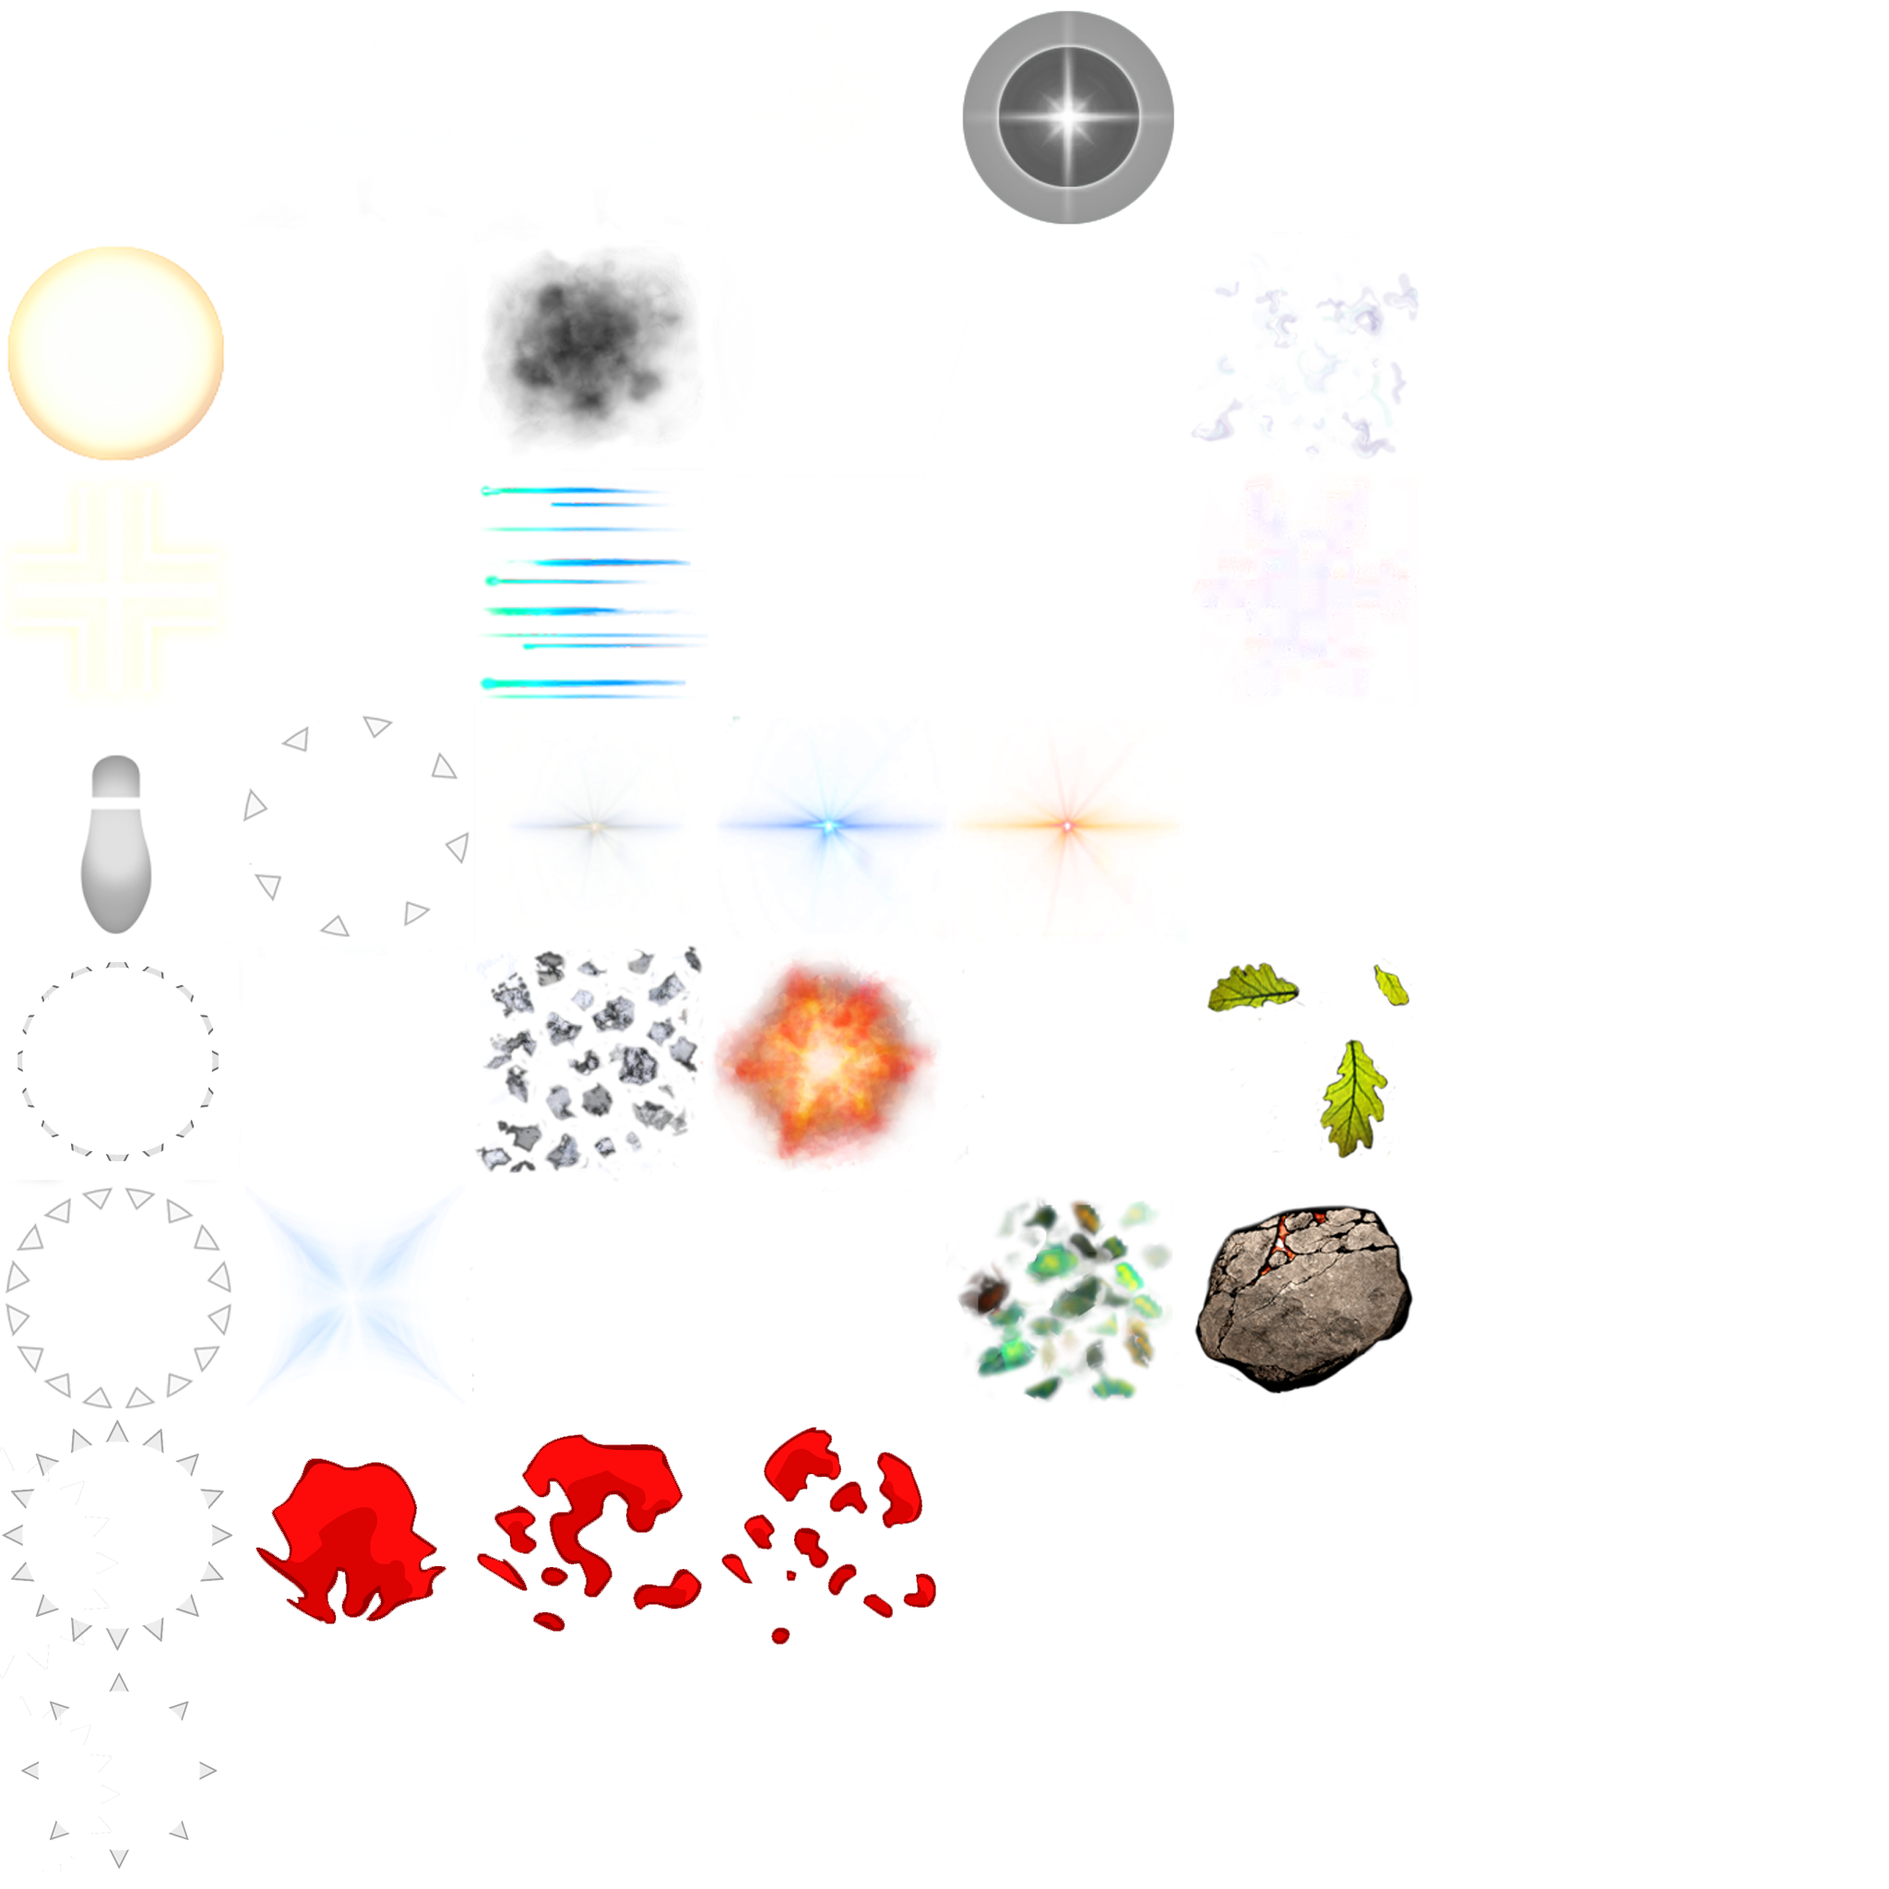
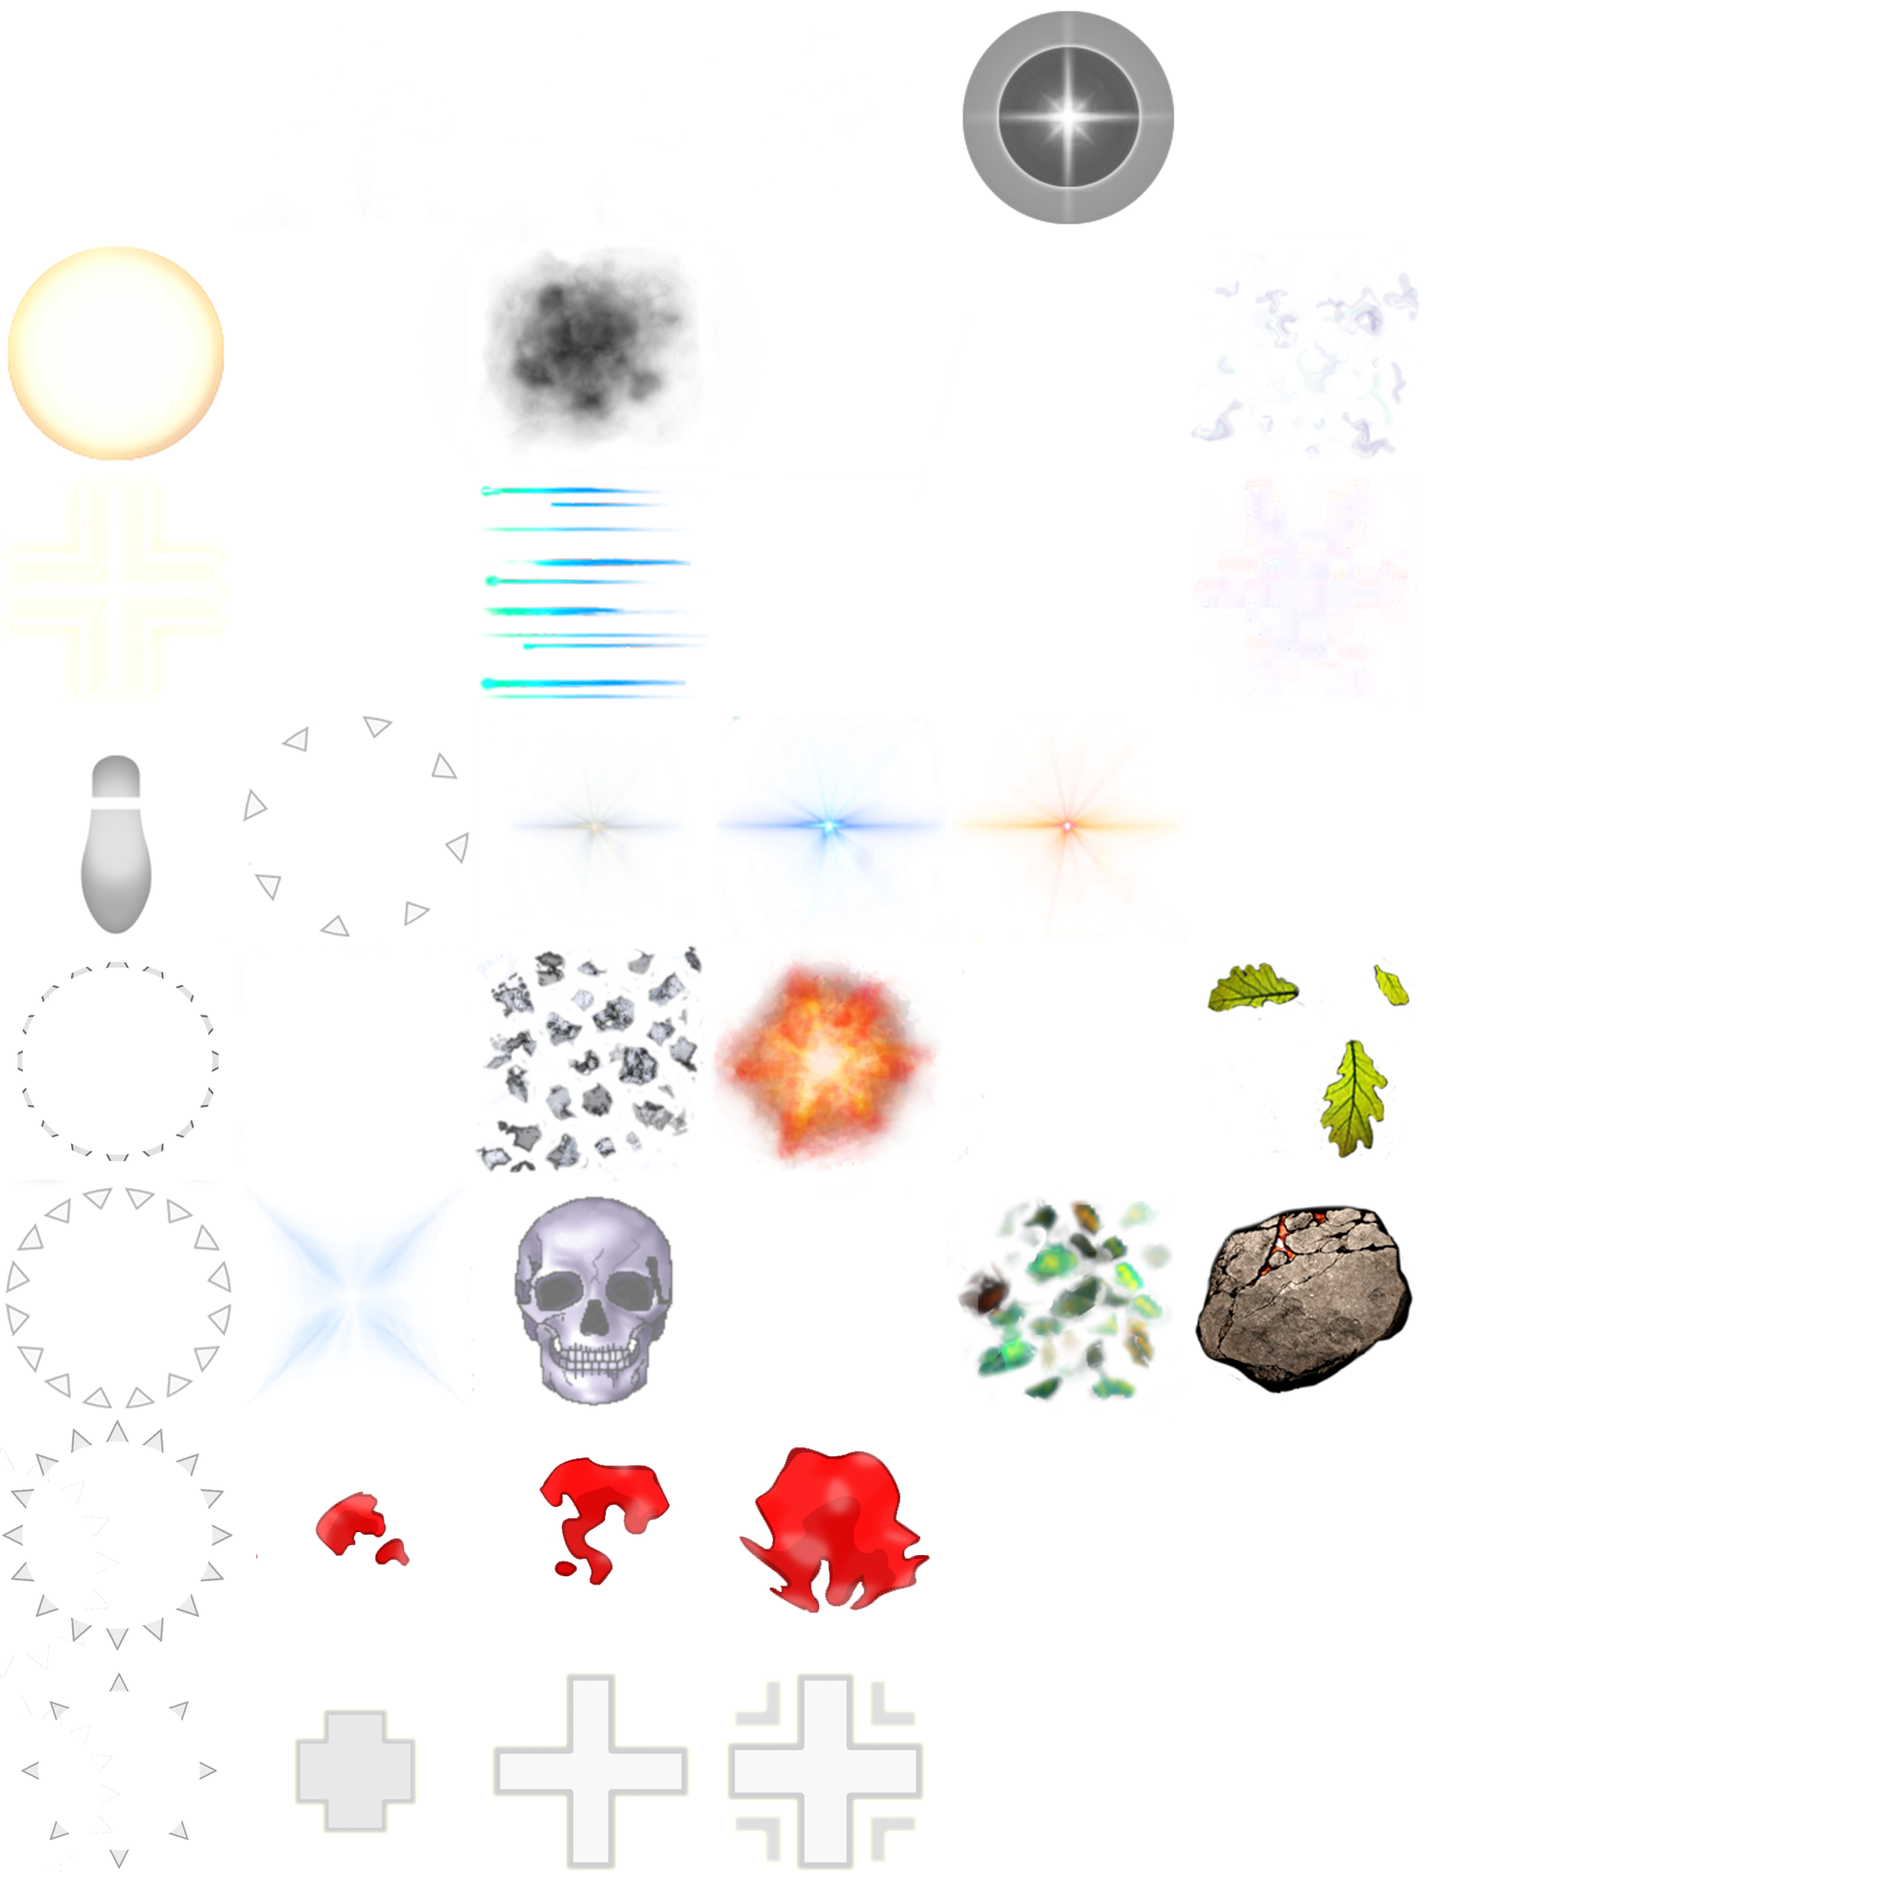
effect fixes

Changed region(s): [[0.125, 0.625, 0.5, 1.0], [0.1562, 0.9062, 0.2188, 0.9688]]

diff --git a/client/js/game/gamepieces/GamePiece.js b/client/js/game/gamepieces/GamePiece.js
@@ -9,6 +9,8 @@ import { MovementPath } from "../piece_functions/MovementPath.js";
 import { PieceState } from "./PieceState.js";
 import { PieceInfoGui } from "../../application/ui/gui/game/PieceInfoGui.js";
 import { CompanionSystem } from "../companion/CompanionSystem.js";
+import * as PieceEffects from "./PieceEffects.js";
+
 import { Vector3 } from "../../../libs/three/math/Vector3.js";
 
 let tempVec3 = new Vector3();
@@ -34,7 +36,7 @@ class GamePiece {
         let tickGamePiece = function(tpf, gameTime) {
         //    this.notifyDamageTaken(5);
             if (Math.random() < 0.15) {
-        //        this.notifyHealthRecover(Math.floor(Math.random()*5)+1)
+            //    PieceEffects.deathEffect(this)
             }
 
             if (this.isDead) {
@@ -202,88 +204,11 @@ class GamePiece {
     };
 
     notifyDamageTaken(dmg, attacker) {
-
-        let effectCb = function(efct) {
-            efct.activateEffectFromConfigId()
-            let fxLanded = function(fx) {
-            //    console.log("Fx arrives", fx)
-            }
-
-            let tempObj = ThreeAPI.tempObj;
-            tempObj.position.copy(this.getPos());
-            let size = this.getStatusByKey('size');
-            tempObj.position.y += size*0.8
-            ThreeAPI.tempVec3.set(size*0.2, size*0.75, size*0.2)
-            tempObj.lookAt(ThreeAPI.getCamera().position);
-            MATH.spreadVector(tempObj.position, ThreeAPI.tempVec3)
-            efct.quat.copy(tempObj.quaternion);
-            tempVec3.copy(this.getPos());
-
-            tempVec3.y += 10000;
-            tempObj.lookAt(tempVec3);
-            tempObj.rotateZ(Math.random()*MATH.TWO_PI)
-            tempVec3.y = 0.1;
-
-            ThreeAPI.tempVec3.set(size*2, 0, size*2)
-
-            efct.setEffectSpriteXY(1+Math.floor(Math.random()*2), 6);
-
-            MATH.spreadVector(tempVec3, ThreeAPI.tempVec3)
-
-            efct.activateSpatialTransition(tempObj.position, efct.quat, tempVec3, tempObj.quaternion, size*0.1+Math.random()*0.3, size*0.2+Math.random()*size*0.5, 0.3+Math.random()*0.3, fxLanded)
-        }.bind(this);
-
-        for (let i = 0; i < dmg; i++) {
-            EffectAPI.buildEffectClassByConfigId('additive_stamps_8x8', 'effect_damage_taken',  effectCb)
-        }
-
-
-
+        PieceEffects.damageEffect(this, dmg, attacker)
     }
 
     notifyHealthRecover(hp, healer) {
-
-
-        let applies = 0;
-        let effectCb = function(efct) {
-
-            efct.activateEffectFromConfigId()
-
-            let tempObj = ThreeAPI.tempObj;
-            tempObj.position.copy(this.getPos());
-            let size = this.getStatusByKey('size');
-            tempObj.position.y += size*1.2
-            tempObj.lookAt(ThreeAPI.getCamera().position);
-
-            efct.quat.copy(tempObj.quaternion);
-            tempVec3.copy(this.getPos());
-
-            tempVec3.y += size + 0.3+Math.sqrt(applies*0.2);
-        //    tempObj.lookAt(tempVec3);
-        //    tempObj.rotateZ(Math.random()*MATH.TWO_PI)
-        //    tempVec3.y = 0.1;
-
-            ThreeAPI.tempVec3.set(Math.sqrt(applies*0.2), Math.sqrt(applies*0.2), Math.sqrt(applies*0.2))
-            MATH.spreadVector(tempVec3, ThreeAPI.tempVec3)
-
-        //    efct.setEffectSpriteXY(0, 2);
-            let fxLanded = function(fx) {
-           //     console.log("arrive: ", fx)
-                efct.endEffectOfClass()
-                ThreeAPI.tempVec3.set(0, -1000, 0)
-                efct.setEffectPosition(ThreeAPI.tempVec3)
-            }
-
-            efct.activateSpatialTransition(tempObj.position, efct.quat, tempVec3, tempObj.quaternion, size*0.1, size*0.5, 1.5, fxLanded)
-            applies ++;
-        }.bind(this);
-
-        for (let i = 0; i < hp; i++) {
-            EffectAPI.buildEffectClassByConfigId('additive_stamps_8x8', 'effect_health_recovered',  effectCb)
-        }
-
-
-
+        PieceEffects.healEffect(this, hp, healer)
     }
 
     getStatus() {
@@ -301,6 +226,7 @@ class GamePiece {
     applyPieceDeadStatus() {
         this.isDead = true;
         this.clearEngagementStatus();
+        PieceEffects.deathEffect(this)
     }
     clearEngagementStatus() {
         this.movementPath.cancelMovementPath()

diff --git a/client/js/game/gamepieces/PieceEffects.js b/client/js/game/gamepieces/PieceEffects.js
@@ -1,0 +1,119 @@
+import { Vector3 } from "../../../libs/three/math/Vector3.js";
+
+let tempVec3 = new Vector3();
+
+let rgba = {
+    r:1, g:1, b:1, a:1
+}
+
+let setRgba = function(r, g, b, a) {
+    rgba.r = r;
+    rgba.g = g;
+    rgba.b = b;
+    rgba.a = a;
+}
+
+let fxLanded = function(fx) {
+    //    console.log("Fx arrives", fx)
+}
+
+let endOnLanded = function(fx) {
+    fx.endEffectOfClass()
+}
+
+function damageEffect(gamePiece, dmg, attacker) {
+
+    let effectCb = function(efct) {
+        efct.activateEffectFromConfigId()
+        let tempObj = ThreeAPI.tempObj;
+        tempObj.position.copy(gamePiece.getPos());
+        let size = gamePiece.getStatusByKey('size');
+        tempObj.position.y += size*0.8
+        ThreeAPI.tempVec3.set(size*0.2, size*0.75, size*0.2)
+        tempObj.lookAt(ThreeAPI.getCamera().position);
+        MATH.spreadVector(tempObj.position, ThreeAPI.tempVec3)
+        efct.quat.copy(tempObj.quaternion);
+        tempVec3.copy(gamePiece.getPos());
+        tempVec3.y += 10000;
+        tempObj.lookAt(tempVec3);
+        tempObj.rotateZ(Math.random()*MATH.TWO_PI)
+        tempVec3.y = 0.1;
+        ThreeAPI.tempVec3.set(size*2, 0, size*2)
+        efct.setEffectSpriteXY(1+Math.floor(Math.random()*3), 6);
+        MATH.spreadVector(tempVec3, ThreeAPI.tempVec3)
+        efct.activateSpatialTransition(tempObj.position, efct.quat, tempVec3, tempObj.quaternion, size*0.2+Math.random()*0.2, size*0.6+Math.random()*size*0.5, 0.4+Math.random()*0.3, fxLanded, 0.9)
+    }
+
+    for (let i = 0; i < dmg; i++) {
+        EffectAPI.buildEffectClassByConfigId('additive_stamps_8x8', 'effect_damage_taken',  effectCb)
+    }
+}
+
+function healEffect(gamePiece, hp, healer) {
+
+    let applies = 0;
+    let effectCb = function(efct) {
+
+        let tempObj = ThreeAPI.tempObj;
+        tempObj.position.copy(gamePiece.getPos());
+        let size = gamePiece.getStatusByKey('size');
+        tempObj.position.y += size*1.7
+        tempObj.lookAt(ThreeAPI.getCamera().position);
+
+        efct.quat.copy(tempObj.quaternion);
+        tempVec3.copy(gamePiece.getPos());
+
+        tempVec3.y = tempObj.position.y + 0.2+Math.sqrt(applies*0.2);
+
+        ThreeAPI.tempVec3.set(Math.sqrt(applies*0.2), Math.sqrt(applies*0.2), Math.sqrt(applies*0.2))
+        MATH.spreadVector(tempVec3, ThreeAPI.tempVec3)
+
+        efct.setEffectSpriteXY(1+Math.floor(Math.random()*3), 7);
+
+        efct.activateSpatialTransition(tempObj.position, efct.quat, tempVec3, tempObj.quaternion, size*0.1, size*0.5, 1.5, endOnLanded, 0.2)
+        efct.activateEffectFromConfigId()
+        applies ++;
+    };
+
+    for (let i = 0; i < hp; i++) {
+        EffectAPI.buildEffectClassByConfigId('additive_stamps_8x8', 'effect_health_recovered',  effectCb)
+    }
+
+
+}
+
+function deathEffect(gamePiece) {
+    let effectCb = function(efct) {
+        efct.activateEffectFromConfigId()
+        let tempObj = ThreeAPI.tempObj;
+        tempObj.position.copy(gamePiece.getPos());
+        let size = gamePiece.getStatusByKey('size');
+        tempObj.position.y = -0.2
+        ThreeAPI.tempVec3.set(size*0.2, size*0.75, size*0.2)
+        tempObj.quaternion.set(0, 0, 0, 1);
+        tempObj.lookAt(ThreeAPI.getCamera().position);
+    //    MATH.spreadVector(tempObj.position, ThreeAPI.tempVec3)
+        tempObj.rotateZ(3.14)
+        efct.quat.copy(tempObj.quaternion);
+        tempVec3.copy(gamePiece.getPos());
+        tempVec3.y += 10000;
+        tempObj.lookAt(tempVec3);
+
+        tempVec3.y = 0.2;
+        setRgba(0.7, 0.7, 0.7, 0.5)
+        efct.setEffectColorRGBA(rgba)
+        efct.setEffectSpriteXY(2, 5);
+    //    MATH.spreadVector(tempVec3, ThreeAPI.tempVec3)
+        efct.activateSpatialTransition(tempObj.position, efct.quat, tempVec3, tempObj.quaternion, size*0.6, size*2.0, 1.0, endOnLanded, 0.5)
+    }
+
+   // for (let i = 0; i < dmg; i++) {
+        EffectAPI.buildEffectClassByConfigId('additive_stamps_8x8', 'effect_damage_taken',  effectCb)
+   // }
+}
+
+export {
+    damageEffect,
+    healEffect,
+    deathEffect
+}

diff --git a/client/js/3d/particles/EffectSpatialTransition.js b/client/js/3d/particles/EffectSpatialTransition.js
@@ -13,6 +13,8 @@ class EffectSpatialTransition {
         this.startSize = 0;
         this.endSize = 0;
 
+        this.bounce = 1;
+
         let tickMovement = function(tpf, gameTime) {
             this.applyFrameToMovement(tpf, gameTime);
         }.bind(this);
@@ -25,7 +27,7 @@ class EffectSpatialTransition {
 
     }
 
-    initEffectTransition(fromPos, fromQuat, toPos, toQuat, fromSize, toSize, overTime, callback) {
+    initEffectTransition(fromPos, fromQuat, toPos, toQuat, fromSize, toSize, overTime, callback, bounce) {
         let now = GameAPI.getGameTime();
         this.startTime = now;
         this.targetTime = now+overTime;
@@ -39,6 +41,7 @@ class EffectSpatialTransition {
 
         this.startSize = fromSize;
         this.endSize = toSize;
+        this.bounce = bounce || 1;
 
         if (typeof(callback) === 'function') {
             this.onArriveCallbacks.push(callback);
@@ -57,7 +60,7 @@ class EffectSpatialTransition {
             let size = MATH.interpolateFromTo(this.startSize, this.endSize, fraction);
 
             MATH.interpolateVec3FromTo(this.startObj3D.position, this.targetObj3D.position, fraction, tempVec3 , 'curveSigmoid');
-            tempVec3.y += Math.sin(fraction*Math.PI)*0.7;
+            tempVec3.y += Math.sin(fraction*Math.PI)*this.bounce;
             let tempQuat = ThreeAPI.tempObj.quaternion;
             tempQuat.slerpQuaternions(this.startObj3D.quaternion, this.targetObj3D.quaternion, fraction)
 
@@ -67,9 +70,7 @@ class EffectSpatialTransition {
             this.gameEffect.scaleEffectSize(size);
 
         } else {
-            this.gameEffect.setEffectPosition(this.targetObj3D.position);
-            MATH.callAll(this.onArriveCallbacks, this.gameEffect);
-            MATH.emptyArray(this.onArriveCallbacks);
+            MATH.callAndClearAll(this.onArriveCallbacks, this.gameEffect);
         }
     }
 

diff --git a/client/js/3d/particles/classes/GameEffect.js b/client/js/3d/particles/classes/GameEffect.js
@@ -71,14 +71,14 @@ class GameEffect {
         EffectAPI.buildEffect(this.callbacks.addEffectParticle)
     };
 
-    activateSpatialTransition(fromPos, fromQuat, toPos, toQuat, fromSize, toSize, time, callback) {
+    activateSpatialTransition(fromPos, fromQuat, toPos, toQuat, fromSize, toSize, time, callback, bounce) {
 
         let onArrive = function(gameEffect) {
             GameAPI.unregisterGameUpdateCallback(this.effectSpatialTransition.callbacks.onGameUpdate)
             callback(gameEffect);
         }.bind(this)
 
-        this.effectSpatialTransition.initEffectTransition(fromPos, fromQuat, toPos, toQuat, fromSize, toSize, time, onArrive)
+        this.effectSpatialTransition.initEffectTransition(fromPos, fromQuat, toPos, toQuat, fromSize, toSize, time, onArrive, bounce)
         GameAPI.registerGameUpdateCallback(this.effectSpatialTransition.callbacks.onGameUpdate)
     }
 

diff --git a/client/js/game/gamepieces/PieceStateProcessor.js b/client/js/game/gamepieces/PieceStateProcessor.js
@@ -219,10 +219,10 @@ class PieceStateProcessor {
             status.trTime = (config.prepFraction * config.turnTime) / status.attacks
         } else if (status.swing < 1) {
             status.trTime = (config.swingFraction * config.turnTime) / status.attacks
-        } else {
             if(status.appliedAttacks < status.attack) {
                 this.applyAttackSwingDamage(status);
             }
+        } else {
             status.trTime = (config.recoverFraction * config.turnTime) / status.attacks
         }
 

diff --git a/client/js/3d/three/instancer/InstancingBufferElement.js b/client/js/3d/three/instancer/InstancingBufferElement.js
@@ -22,8 +22,8 @@ class InstancingBufferElement {
         this.quaternion.set(0, 0, 0, 1);
         this.position.set(0, 0, 0);
         this.endTime = 0;
-        // negative r inverts lut gradient direction
-        this.rgba =     {r:1, g:1, b:1, a:1};
+
+        this.rgba =     {r:1, g:1, b:1, a:1}; // negative r inverts lut gradient direction
         this.pos =      {x:1, y:1, z:-1};
         this.initScale =    {x:1, y:1, z:1};
         this.quat =     {x:0, y:0, z:0, w:1};
